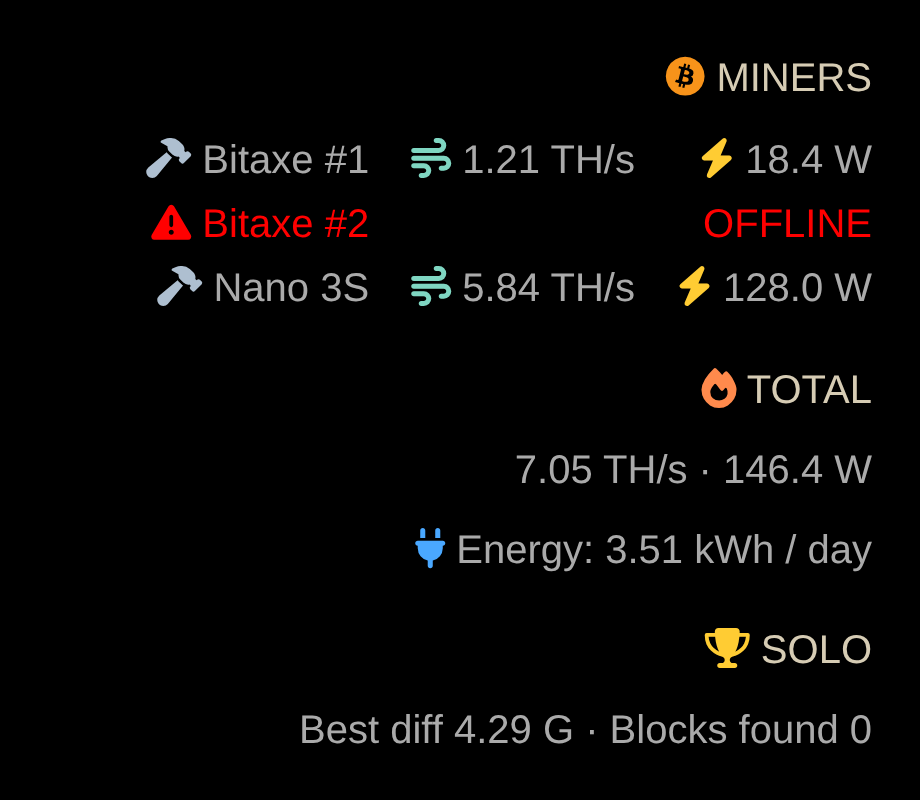
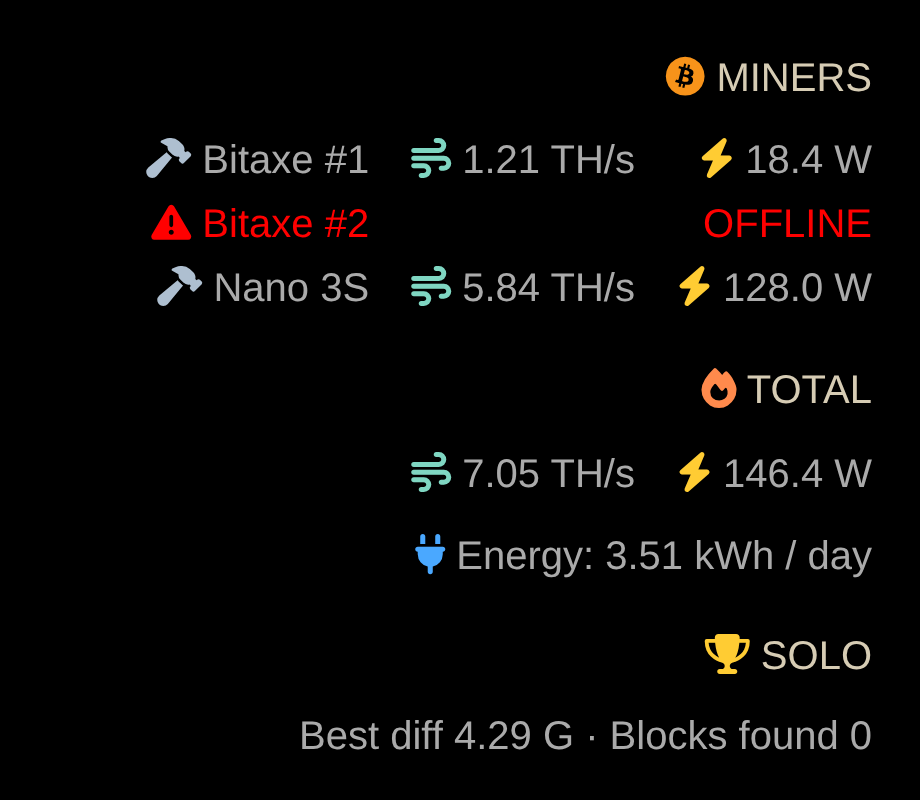
Line up the totals with the miner columns

diff --git a/MMM-MinerStats.js b/MMM-MinerStats.js
@@ -48,10 +48,8 @@ Module.register("MMM-MinerStats", {
 
 		const table = this.element("table", "minerstats-miners");
 		for (const miner of this.stats.miners) table.append(this.minerRow(miner));
+		table.append(this.totalHeadingRow(), this.totalRow());
 		wrapper.append(table);
-
-		wrapper.append(this.heading("fa-solid fa-fire", "TOTAL"));
-		wrapper.append(this.element("div", "", `${this.stats.totalHash.toFixed(2)} TH/s · ${this.stats.totalPower.toFixed(1)} W`));
 
 		if (this.config.showEnergy) {
 			const energy = this.element("div", "minerstats-energy");
@@ -77,28 +75,51 @@ Module.register("MMM-MinerStats", {
 
 	minerRow (miner) {
 		const row = document.createElement("tr");
-		const cell = (icon, text) => {
-			const td = document.createElement("td");
-			td.append(this.icon(icon), ` ${text}`);
-			row.append(td);
-		};
 
 		if (!miner.online) {
 			row.className = "minerstats-offline";
-			cell("fa-solid fa-triangle-exclamation", miner.name);
+			row.append(this.iconCell("fa-solid fa-triangle-exclamation", miner.name));
 			const status = this.element("td", "", "OFFLINE");
 			status.colSpan = this.config.showTemperature ? 3 : 2;
 			row.append(status);
 			return row;
 		}
 
-		cell("fa-solid fa-hammer", miner.name);
-		cell("fa-solid fa-wind", `${miner.hash.toFixed(2)} TH/s`);
-		cell("fa-solid fa-bolt", `${miner.power.toFixed(1)} W`);
+		row.append(
+			this.iconCell("fa-solid fa-hammer", miner.name),
+			this.iconCell("fa-solid fa-wind", `${miner.hash.toFixed(2)} TH/s`),
+			this.iconCell("fa-solid fa-bolt", `${miner.power.toFixed(1)} W`)
+		);
 		if (this.config.showTemperature) {
-			cell("fa-solid fa-temperature-half", miner.temp === null ? "–" : `${miner.temp.toFixed(0)} °C`);
+			row.append(this.iconCell("fa-solid fa-temperature-half", miner.temp === null ? "–" : `${miner.temp.toFixed(0)} °C`));
 		}
 		return row;
+	},
+
+	totalHeadingRow () {
+		const row = this.element("tr", "minerstats-total-heading");
+		const cell = document.createElement("td");
+		cell.colSpan = this.config.showTemperature ? 4 : 3;
+		cell.append(this.heading("fa-solid fa-fire", "TOTAL"));
+		row.append(cell);
+		return row;
+	},
+
+	totalRow () {
+		const row = document.createElement("tr");
+		row.append(
+			document.createElement("td"),
+			this.iconCell("fa-solid fa-wind", `${this.stats.totalHash.toFixed(2)} TH/s`),
+			this.iconCell("fa-solid fa-bolt", `${this.stats.totalPower.toFixed(1)} W`)
+		);
+		if (this.config.showTemperature) row.append(document.createElement("td"));
+		return row;
+	},
+
+	iconCell (icon, text) {
+		const cell = document.createElement("td");
+		cell.append(this.icon(icon), ` ${text}`);
+		return cell;
 	},
 
 	heading (icon, text) {

diff --git a/MMM-MinerStats.css b/MMM-MinerStats.css
@@ -44,7 +44,11 @@
 
 .minerstats-miners {
 	border-collapse: collapse;
-	margin: 0 0 1em auto;
+	margin-left: auto;
+}
+
+.minerstats-total-heading td {
+	padding-top: 1em;
 }
 
 .minerstats-miners td {
